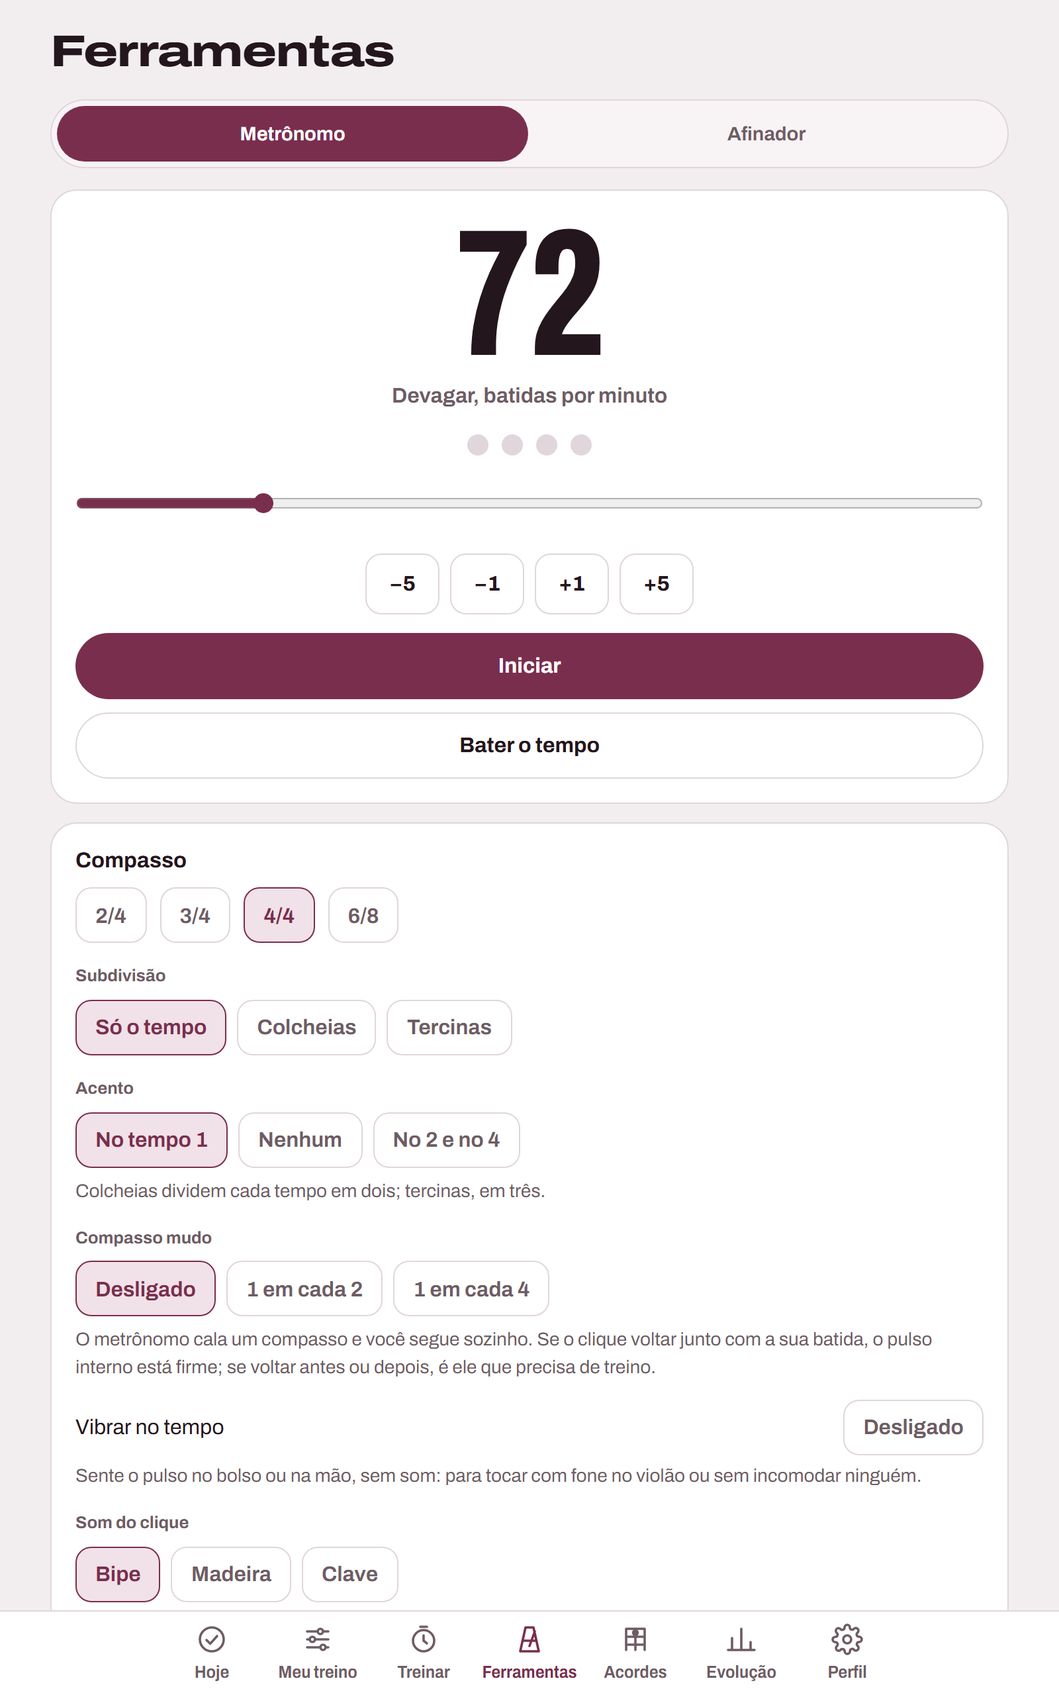
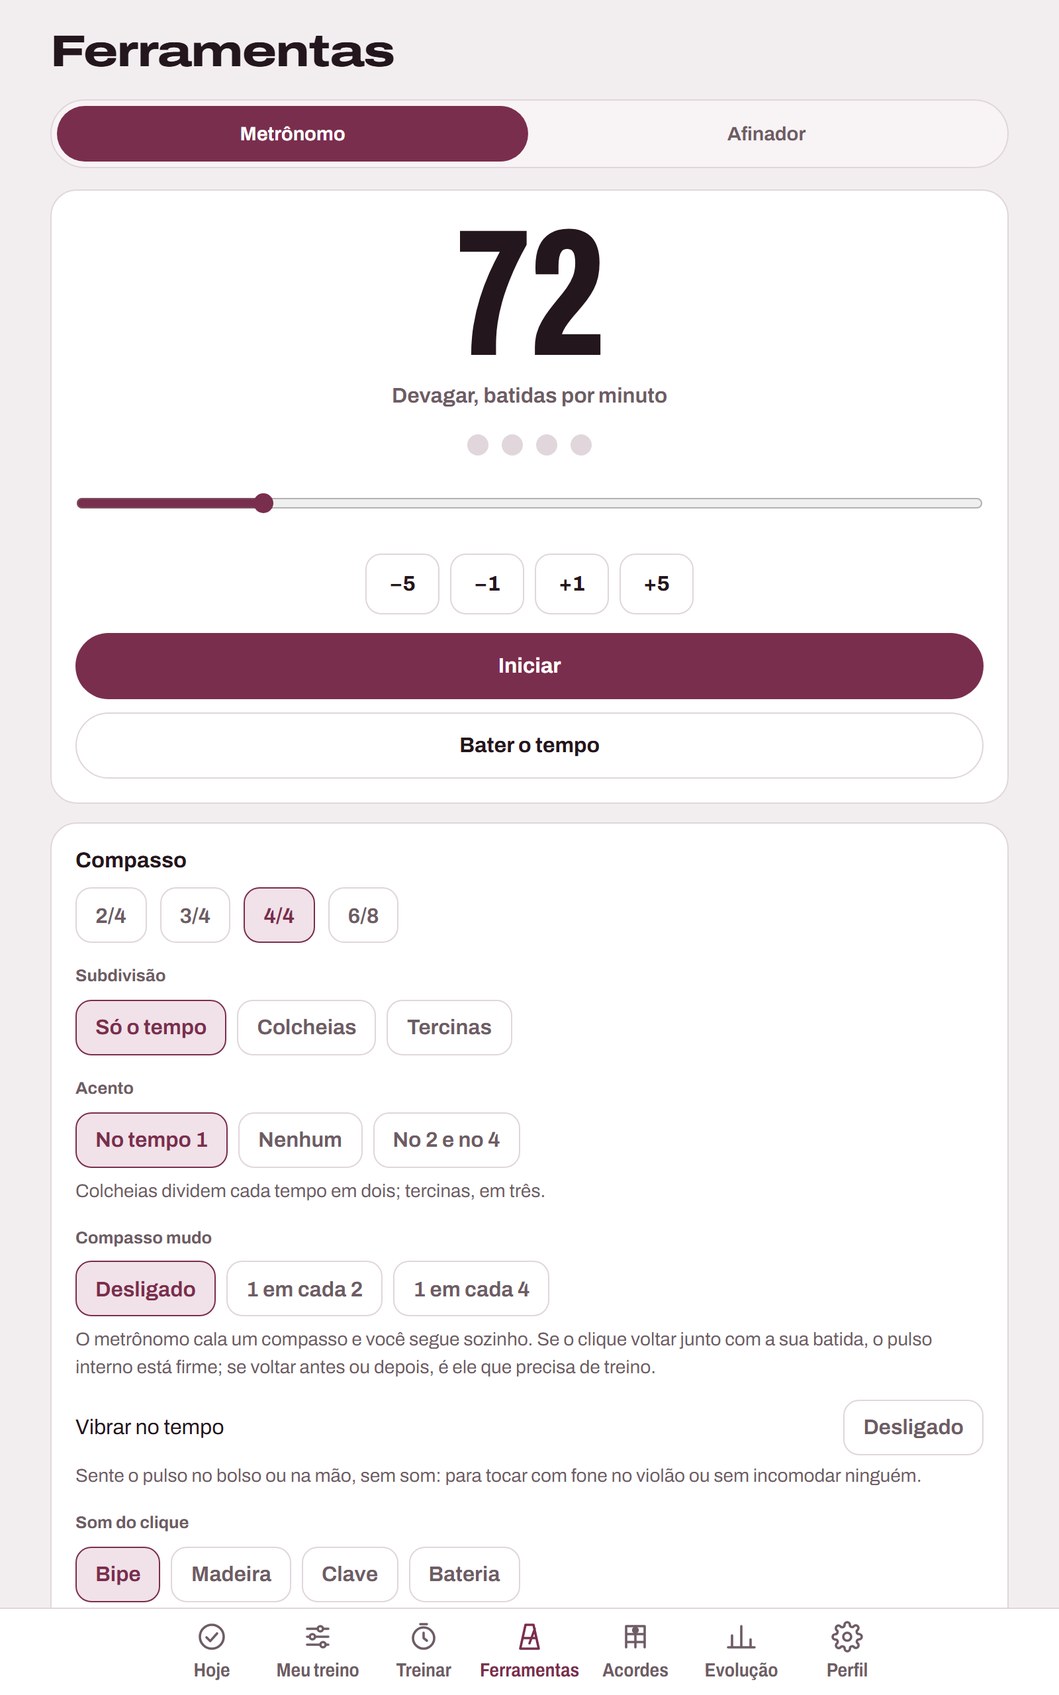
Ouvido no braço, conquistas novas e ficha da loja atualizada (versão 1.30.0)
- Ouvido, Braço ("Onde está a nota?"): o app toca uma nota até a 7ª casa e a pessoa responde tocando num braço com as notas escondidas; qualquer posição com a mesma altura vale, e as posições certas aparecem depois. Conta nos acertos por modalidade.
- Seis conquistas novas (cem dias de violão, cem dias seguidos, 3000 minutos, primeira música dominada, cinco dominadas, batida própria); a do roteiro passa a citar o total de semanas atual.
- Ficha da Play Store com tudo o que entrou desde a 1.25 e capturas regeneradas (celular e tablets), que também alimentam o manifesto do site.
- Testes de tela: 55.

diff --git a/index.html b/index.html
@@ -4,7 +4,7 @@
 <meta charset="utf-8">
 <meta name="viewport" content="width=device-width, initial-scale=1, viewport-fit=cover">
 <title>Violão Diário</title>
-<meta name="app-version" content="1.29.0">
+<meta name="app-version" content="1.30.0">
 <meta name="description" content="Treino diário de violão: plano por nível, metrônomo, afinador, batidas para tocar junto, acordes e notas.">
 <link rel="manifest" href="manifest.webmanifest">
 <meta name="theme-color" content="#F2EEF0" media="(prefers-color-scheme: light)">
@@ -461,6 +461,7 @@ body.flash::after{content:"";position:fixed;inset:0;background:var(--brass);opac
 .cdiag{width:118px;flex:none;margin-left:10px}
 .vol{display:grid;grid-template-columns:118px 1fr 52px;align-items:center;gap:8px;margin-top:6px}.vol b{text-align:right} /* volumes em Perfil, Som */
 .cif-ch.sel{box-shadow:0 0 0 2px var(--brass)} /* trecho em loop marcado na cifra */
+.fb button.right i{background:var(--ok);border-color:var(--ok);color:#fff}.fb button.wrong i{border-color:var(--warn);color:var(--warn)} /* ouvido, Braço: posições certas e a errada */
 .tabs button{font-size:.76rem;font-stretch:75%;padding-left:0;padding-right:0} /* nomes maiores: medidos com a fonte Archivo, o nome mais longo (Ferramentas) cabe na coluna com folga em cada faixa de largura */
 @media (min-width:480px){.tabs button{font-size:.82rem;font-stretch:80%}}
 @media (max-width:429px){.tabs button{font-size:.72rem;font-stretch:70%}}
@@ -828,7 +829,13 @@ const BADGES=[
  ['ouvido','Ouvido afiado','Vinte respostas no treino de ouvido, com 80% de acerto.',()=>S.ear.total>=20&&S.ear.ok/S.ear.total>=.8],
  ['meutreino','Treino próprio','Dez vezes em treinos montados por você.',()=>Object.values(S.ctLog).reduce((a,l)=>a+Object.values(l).reduce((b,e)=>b+(e.n||0),0),0)>=10],
  ['nivel','Subiu de nível','Cumpriu as quatro metas de um nível e passou ao seguinte.',()=>S.level>(S.startLevel||1)],
- ['roteiro','Roteiro completo','As 24 semanas vencidas.',()=>roadDone()>=ROAD_TOTAL]
+ ['roteiro','Roteiro completo','As '+ROAD_TOTAL+' semanas vencidas.',()=>roadDone()>=ROAD_TOTAL],
+ ['dias100','Cem dias de violão','Cem dias com prática registrada.',()=>Object.keys(S.days).filter(practiced).length>=100],
+ ['seq100','Cem dias seguidos','Cem dias sem falhar.',()=>bestStreak()>=100],
+ ['min3000','3000 minutos','Cinquenta horas de prática.',()=>totalMin()>=3000],
+ ['musica1','Primeira música','Uma música marcada como dominada.',()=>S.songs.some(s=>s.status==='dominada')],
+ ['musicas5','Repertório','Cinco músicas dominadas.',()=>S.songs.filter(s=>s.status==='dominada').length>=5],
+ ['minhabatida','Batida própria','Criou uma batida sua em Treinar, Batidas.',()=>(S.mypats||[]).length>0]
 ];
 function checkBadges(){const got=[];BADGES.forEach(b=>{try{if(!S.badges[b[0]]&&b[3]()){S.badges[b[0]]=today();got.push(b[1]);}}catch(e){}});if(got.length){save();got.forEach(n=>toast('Conquista: '+n));}}
 function roadEstimate(level,goal,done){ // semanas que faltam, ajustadas pelo tempo diário
@@ -1513,6 +1520,7 @@ function earNew(){
   else if(sub.ouvido==='ivl'){const r=45+Math.floor(Math.random()*13),iv=shuffle(IVLS),a=iv[0];E.q={midis:[r,r+a[0]],gap:.55,ans:a[1],opts:shuffle(iv.slice(0,4).map(x=>x[1]))};} // duas notas em sequência, a partir de uma nota grave
   else if(sub.ouvido==='prog'){const ps=shuffle(earProgs()),a=ps[0];E.q={names:a,ans:a.join(' '),opts:shuffle(ps.slice(0,4).map(p=>p.join(' ')))};}
   else if(sub.ouvido==='sing'){const m=[52,53,55,57,59,60,62,64][Math.floor(Math.random()*8)];E.q={midis:[m],sing:true,ans:NPT[m%12],opts:[]};if(MIC&&MIC.mode==='sing'){MIC.hold=0;MIC.hist=[];}} // uma nota entre Mi3 e Mi4
+  else if(sub.ouvido==='fb'){const si=Math.floor(Math.random()*6),f=Math.floor(Math.random()*8),m=OPEN[si]+f;E.q={midis:[m],fb:true,ans:NPT[m%12]+' (por exemplo, '+(6-si)+'ª corda '+(f?'casa '+f:'solta')+')',opts:[]};} // uma nota até a 7ª casa; vale qualquer posição com a mesma altura
   else{const pool=shuffle(earPool()),ans=pool[0];E.q={midis:chordMidis(ans),ans,opts:shuffle(pool.slice(0,4))};}
 }
 const strumSeq=(names,gap)=>names.forEach((n,i)=>chordMidis(n).forEach((m,k)=>pluck(m,i*gap+k*.035,.34))); // acordes um atrás do outro
@@ -2350,13 +2358,21 @@ V.treinar=function(){
     }
   }else{
     if(!E.q)earNew();
-    h+=seg('ouvido',[['mm','Maior/menor'],['qual','Acorde'],['ivl','Intervalo'],['prog','Progressão'],['sing','Cantar']]);
+    h+=seg('ouvido',[['mm','Maior/menor'],['qual','Acorde'],['ivl','Intervalo'],['prog','Progressão'],['sing','Cantar'],['fb','Braço']]);
     if(sub.ouvido==='sing'){const on=!!(MIC&&MIC.mode==='sing');
       h+='<section class="panel"><h2>Cante a nota que você ouviu</h2><p class="sub">Ouça, cante a mesma nota e segure. Vale em qualquer oitava: o que importa é a nota, não a altura. Cantar o que se ouve é o primeiro passo para tirar música de ouvido.</p><button class="btn block quiet" style="margin:16px 0" data-act="ear-play">Ouvir a nota'+(E.ans?' ('+esc(E.q.ans)+')':'')+'</button>';
       if(on)h+='<div class="meter"><div class="needle" id="sing-needle"></div></div><div class="between small muted"><span>grave</span><span>aguda</span></div><div class="lvl"><i id="sing-lvl"></i></div><p style="text-align:center;margin:12px 0;font-weight:650;min-height:1.4em" id="sing-msg" aria-live="polite">'+(E.ans==='ok'?'Certo!':'Cante a nota e segure, com a boca perto do celular.')+'</p>';
       else h+='<p class="sub small">'+(micErr?(NATIVE?'O app está sem acesso ao microfone. Libere nos ajustes do celular.':'O microfone não está disponível aqui. Permita o acesso quando o navegador pedir.'):'O microfone fica ligado só nesta tela.')+'</p>';
       if(E.ans)h+='<p style="margin:14px 0"><b>'+(E.ans==='ok'?'Certo.':'Era '+esc(E.q.ans)+'.')+'</b></p><button class="btn block" data-act="ear-next">Próxima nota</button>';
       h+='<div class="acts">'+(on?'<button class="btn sm line" data-act="sing-mic">Desligar microfone</button><button class="link" data-act="mic-again" data-mode="sing">Religar o microfone</button>':'<button class="btn sm" data-act="sing-mic">Ligar o microfone e cantar</button>')+(E.ans?'':'<button class="link" data-act="sing-skip">Não consegui, próxima</button>')+'</div>';
+      h+='<p class="muted small" style="margin-top:14px">Nesta sessão: '+E.ok+' de '+E.total+'. No total: '+S.ear.ok+' de '+S.ear.total+'.</p></section>';return h;}
+    if(sub.ouvido==='fb'){if(!E.q||!E.q.fb)earNew();const q=E.q,a=E.ans,right=[];for(let si=0;si<6;si++)for(let f=0;f<=12;f++)if(OPEN[si]+f===q.midis[0])right.push(si+':'+f);
+      h+='<section class="panel"><h2>Onde está a nota?</h2><p class="sub">Ouça a nota e toque no braço onde ela está. Vale qualquer posição com a mesma altura: a mesma nota mora em mais de uma corda. Treina o ouvido e o braço ao mesmo tempo.</p><button class="btn block quiet" style="margin:16px 0" data-act="ear-play">Ouvir a nota</button>';
+      let g='<div class="hd"></div>';for(let f=0;f<=12;f++)g+='<div class="hd'+([3,5,7,9,12].includes(f)?' mk':'')+'">'+(f===0?'solta':f+([3,5,7,9,12].includes(f)?' •':''))+'</div>';
+      for(let si=5;si>=0;si--){g+='<div class="sl">'+(6-si)+'ª</div>';for(let f=0;f<=12;f++){const k=si+':'+f,cls=(f===0?'open ':'')+(a&&right.includes(k)?'right ':'')+(a&&a.si===si&&a.f===f&&!right.includes(k)?'wrong ':'');g+='<button class="'+cls.trim()+'" data-act="ear-fb" data-si="'+si+'" data-f="'+f+'" aria-label="'+(6-si)+'ª corda, '+(f?'casa '+f:'solta')+'"><i>'+(a?NL[(OPEN[si]+f)%12]:'?')+'</i></button>';}}
+      h+='<div class="fbwrap" tabindex="0" role="region" aria-label="Braço para responder, rola para o lado"><div class="fb'+(S.lefty?' lefty':'')+'">'+g+'</div></div>';
+      if(a)h+='<p style="margin:14px 0"><b>'+(a.ok?'Certo: '+esc(q.ans)+'.':'Era '+esc(q.ans)+'. As posições certas estão marcadas.')+'</b></p><button class="btn block" data-act="ear-next">Próxima nota</button>';
+      else h+='<p class="muted small" style="margin-top:10px">As notas ficam escondidas até você responder.</p>';
       h+='<p class="muted small" style="margin-top:14px">Nesta sessão: '+E.ok+' de '+E.total+'. No total: '+S.ear.ok+' de '+S.ear.total+'.</p></section>';return h;}
     const EAR={mm:['O acorde é maior ou menor?','Maior costuma soar aberto e alegre. Menor, fechado e triste.','Ouvir o acorde'],qual:['Qual acorde você ouviu?','As opções vêm dos acordes do seu nível.','Ouvir o acorde'],ivl:['Qual é a distância entre as duas notas?','Duas notas, uma depois da outra. Cante a primeira e suba até a segunda: a distância é o intervalo. As escalas em Acordes, Teoria mostram cada um.','Ouvir as duas notas'],prog:['Qual progressão você ouviu?','Quatro acordes em sequência, das progressões do seu nível. Ouça o baixo de cada acorde: ele conta a história.','Ouvir a progressão']}[sub.ouvido]||['','',''];
     h+='<section class="panel"><h2>'+EAR[0]+'</h2><p class="sub">'+EAR[1]+'</p><button class="btn block quiet" style="margin:16px 0" data-act="ear-play">'+EAR[2]+'</button><div class="opts'+(sub.ouvido==='prog'?' one':'')+'">'+E.q.opts.map(o=>{let c='opt';if(E.ans){if(o===E.q.ans)c+=' right';else if(o===E.ans)c+=' wrong';}return '<button class="'+c+'" data-act="ear-ans" data-v="'+esc(o)+'">'+esc(o)+'</button>';}).join('')+'</div>';
@@ -2462,7 +2478,7 @@ V.evolucao=function(){
     const wa=weekStats(0),wb=weekStats(1);
     h+='<section class="panel"><h2>Esta semana</h2><div style="margin-top:6px"><div class="kv"><span>Minutos</span><b>'+wa.min+(wb.min?' <small class="muted">(semana passada: '+wb.min+')</small>':'')+'</b></div><div class="kv"><span>Dias praticados</span><b>'+wa.days+' de 7'+(wb.min?' <small class="muted">(passada: '+wb.days+')</small>':'')+'</b></div></div></section>';
     h+='<section class="panel"><h2>Conquistas</h2><p class="sub small">'+Object.keys(S.badges).length+' de '+BADGES.length+'</p><div class="badges">'+BADGES.map(b=>{const got=S.badges[b[0]];return '<div class="badge'+(got?' got':'')+'"><b>'+esc(b[1])+'</b><span>'+esc(b[2])+'</span>'+(got?'<small>'+esc(dayTxt(got))+'</small>':'')+'</div>';}).join('')+'</div></section>';
-    const EM={mm:'Maior ou menor',qual:'Acorde',ivl:'Intervalo',prog:'Progressão',sing:'Cantar a nota'},em=Object.keys(EM).filter(x=>S.earLog[x]&&S.earLog[x].total);
+    const EM={mm:'Maior ou menor',qual:'Acorde',ivl:'Intervalo',prog:'Progressão',sing:'Cantar a nota',fb:'Onde está a nota'},em=Object.keys(EM).filter(x=>S.earLog[x]&&S.earLog[x].total);
     if(em.length)h+='<section class="panel"><h2>Ouvido por modalidade</h2><div style="margin-top:6px">'+em.map(x=>{const e=S.earLog[x];return '<div class="kv"><span>'+EM[x]+'</span><b>'+Math.round(100*e.ok/e.total)+'% <small class="muted">('+e.ok+' de '+e.total+')</small></b></div>';}).join('')+'</div><p class="muted small" style="margin-top:8px">Contado a partir da versão 1.27; o total geral, em Marcas, inclui o que veio antes.</p></section>';
     h+='<section class="panel"><h2>Marcas</h2><div style="margin-top:6px"><div class="kv"><span>Acordes dominados</span><b>'+dom+' de '+CHORDS.length+'</b></div><div class="kv"><span>Melhor troca em 1 minuto</span><b>'+(pk?bestOf(pk)+' ('+esc(pk.replace('|',' e '))+')':'ainda sem medição')+'</b></div><div class="kv"><span>Metrônomo mais rápido por 1 minuto</span><b>'+(S.maxBpm?S.maxBpm+' BPM':'ainda sem registro')+'</b></div><div class="kv"><span>Acertos no treino de ouvido</span><b>'+(S.ear.total?Math.round(S.ear.ok/S.ear.total*100)+'% de '+S.ear.total:'ainda sem respostas')+'</b></div><div class="kv"><span>Revisão rápida: itens firmes</span><b>'+Object.keys(S.rev).filter(x=>S.rev[x].s>=3).length+' de '+Object.keys(S.rev).length+'</b></div></div></section>';
   }else if(sub.evolucao==='roteiro'){
@@ -2540,6 +2556,7 @@ if(PWA.host){
 const TABS=[['hoje','Hoje','<circle cx="12" cy="12" r="9"/><path d="M8 12.5l2.8 2.8L16 9.5"/>'],['meu','Meu treino','<path d="M4 6h8M16 6h4M4 12h2M10 12h10M4 18h10M18 18h2"/><circle cx="14" cy="6" r="2"/><circle cx="8" cy="12" r="2"/><circle cx="16" cy="18" r="2"/>'],['treinar','Treinar','<circle cx="12" cy="13" r="8"/><path d="M12 9v4l2.5 2M9.5 2.5h5"/>'],['ferramentas','Ferramentas','<path d="M9 3h6l4 18H5L9 3zM12 17l4-11M7.2 13h9.6"/>'],['acordes','Acordes','<path d="M5 4v16M12 4v16M19 4v16M5 4h14M5 10h14M5 16h14"/><circle cx="12" cy="7" r="1.7" fill="currentColor"/>'],['evolucao','Evolução','<path d="M5 20V11M12 20V4M19 20v-6M2 20h20"/>'],['perfil','Perfil','<circle cx="12" cy="12" r="3"/><path d="M19.4 15a1.7 1.7 0 0 0 .3 1.8l.1.1a2 2 0 1 1-2.8 2.8l-.1-.1a1.7 1.7 0 0 0-1.8-.3 1.7 1.7 0 0 0-1 1.5V21a2 2 0 1 1-4 0v-.1a1.7 1.7 0 0 0-1.1-1.5 1.7 1.7 0 0 0-1.8.3l-.1.1a2 2 0 1 1-2.8-2.8l.1-.1a1.7 1.7 0 0 0 .3-1.8 1.7 1.7 0 0 0-1.5-1H3a2 2 0 1 1 0-4h.1a1.7 1.7 0 0 0 1.5-1.1 1.7 1.7 0 0 0-.3-1.8l-.1-.1a2 2 0 1 1 2.8-2.8l.1.1a1.7 1.7 0 0 0 1.8.3h.1a1.7 1.7 0 0 0 1-1.5V3a2 2 0 1 1 4 0v.1a1.7 1.7 0 0 0 1 1.5 1.7 1.7 0 0 0 1.8-.3l.1-.1a2 2 0 1 1 2.8 2.8l-.1.1a1.7 1.7 0 0 0-.3 1.8v.1a1.7 1.7 0 0 0 1.5 1H21a2 2 0 1 1 0 4h-.1a1.7 1.7 0 0 0-1.5 1z"/>']];
 /* ---------- novidades de cada versão, mostradas uma vez ---------- */
 const NEWS=[
+ ['1.30.0',['Ouvido, Braço: ouça a nota e toque no braço onde ela está; vale qualquer posição com a mesma altura.','Seis conquistas novas: cem dias de violão, cem dias seguidos, 3000 minutos, primeira música dominada, cinco dominadas e batida própria.','Ficha e capturas da loja atualizadas com tudo o que entrou nas últimas versões.']],
  ['1.29.0',['Tocar junto com trecho em loop: escolha o acorde de início e o de fim e só aquela parte se repete.','Perfil, Som: volumes separados para o violão e para o clique ou bateria.','Botão Voltar do Android e tecla Esc fecham o que está aberto por cima (desenho do acorde, palco, música) antes de voltar para Hoje.','Depois de tocar junto uma música inteira três vezes, o app sugere marcá-la como dominada.']],
  ['1.28.0',['Acordes, Descobrir: marque as casas num diagrama e o app diz que acorde é, mostra as notas e toca; abaixo, as formas móveis de E e de A em qualquer casa.','Na cifra, o tom provável da música (com o relativo) e os acordes do tom.','Remover uma música pede confirmação e dá para desfazer.']],
  ['1.27.0',['Depois do nível 9, Hoje vira manutenção: cada dia revisita uma semana do roteiro, com os seus pares de troca mais lentos e as suas músicas.','Evolução, Números: minutos por semana nas últimas 12 semanas (com a meta semanal), melhor troca por minuto de cada semana e acertos do ouvido por modalidade.','Hoje, em Mais: “Praticar agora” liga um cronômetro que conta mesmo com a tela apagada e soma os minutos ao parar.','Site instalável com prévia das telas na instalação; testes de tela com auditoria de acessibilidade (axe-core).']],
@@ -2749,7 +2766,8 @@ const ACT={
   't-adj':el=>{T.count=Math.max(0,T.count+(+el.dataset.d));const n=$('#t-n');if(n)n.textContent=T.count;},
   't-mic':()=>{micAgain('count');},
   'mic-again':el=>{micAgain(el.dataset.mode||'tune');},
-  'ear-play':()=>{earPlay();},
+  'ear-fb':el=>{if(E.ans||!E.q||!E.q.fb)return;const si=+el.dataset.si,f=+el.dataset.f,m=OPEN[si]+f,ok=m===E.q.midis[0];E.ans={si,f,ok};E.total++;S.ear.total++;if(ok){E.ok++;S.ear.ok++;}earLogAdd(ok);if(audio())pluckAt(m,AC.currentTime+.01,.6,si);save();checkProofs();render();},
+'ear-play':()=>{earPlay();},
   'ear-ans':el=>{if(E.ans||!E.q)return;E.ans=el.dataset.v;const ok=E.ans===E.q.ans;E.total++;S.ear.total++;if(ok){E.ok++;S.ear.ok++;}earLogAdd(ok);save();checkProofs();render();},
   'ear-next':()=>{earNew();earPlay();render();},
   'chord-play':el=>strum(chordMidis(el.dataset.c),.045),

diff --git a/store/listagem.md b/store/listagem.md
@@ -15,24 +15,26 @@ Um treino curto por dia: metrônomo, afinador, acordes, batidas e teoria.
 Quinze minutos por dia rendem mais que duas horas no sábado. O Violão Diário monta um treino curto para o seu nível, todos os dias, e mostra sua evolução em números.
 
 COMO FUNCIONA
-Você diz onde está (nunca toquei, sei um ou dois acordes, quero vencer a pestana, quero dedilhar, quero escalas e solos) e quanto tempo tem por dia. O app monta um roteiro de 9 níveis com 4 semanas cada, e todo dia entrega um treino com aquecimento, técnica, ritmo, trocas de acorde e repertório. Cada bloco tem um cronômetro e explica por que existe.
+Você diz onde está (nunca toquei, sei um ou dois acordes, quero vencer a pestana, quero dedilhar, quero escalas e solos) e quanto tempo tem por dia. O app monta um roteiro de 9 níveis com 4 semanas cada, e todo dia entrega um treino com aquecimento, técnica, ritmo, trocas de acorde e repertório. Cada bloco tem um cronômetro e explica por que existe. Depois do último nível, o treino vira manutenção: cada dia revisita uma parte do roteiro, com os seus pares mais lentos e as suas músicas.
 
 O QUE VEM DENTRO
-• Metrônomo com subir aos poucos, subdivisão em colcheias ou tercinas e acento no 2 e no 4.
-• Afinador pelo microfone e tons de referência.
-• Batidas e dedilhados para tocar junto, com contagem e som de violão: quatro para baixo, desce e sobe, pop, reggae, valsa, P-I-M-A, baixo alternado e mais.
+• Metrônomo com subir aos poucos, subdivisão em colcheias ou tercinas, acento no 2 e no 4, compasso mudo, som de bipe, madeira, clave ou bateria simples, vibração e piscar da tela.
+• Afinador pelo microfone, por corda ou cromático, com meio tom abaixo, Drop D e Lá de referência ajustável, e tons de referência.
+• Batidas e dedilhados para tocar junto, com contagem e som de violão: quatro para baixo, desce e sobe, pop, reggae, valsa, bossa nova, samba, xote, baião, P-I-M-A, baixo alternado e mais, além da sua batida própria.
 • Contador de trocas de acorde por minuto, tocando na tela ou pelo microfone.
 • Conferir um acorde pelo som: o app diz que corda não soou ou que dedo parece fora do lugar.
 • Som de violão de verdade: notas gravadas de violão de nylon, de aço e de guitarra limpa, à sua escolha.
 • 42 acordes com diagramas, dedos e som, incluindo pestanas, sétimas, suspensos, add9, com baixo e power chords, com versões fáceis para começar.
+• Que acorde é esse? Marque as casas num diagrama e o app diz o nome, mostra as notas e toca; formas móveis de E e de A em qualquer casa.
 • Guia do iniciante: como segurar o violão, ler o diagrama, palheta ou dedos, dor nos dedos e cordas.
 • Teoria que explica: por que cada corda é apertada onde é, o que é terça, quinta, sétima, escalas (maior, menor natural, harmônica, melódica e pentatônica), ciclo das quintas e quartas.
-• Treino de ouvido: maior ou menor, qual acorde, intervalos e progressões.
+• Treino de ouvido: maior ou menor, qual acorde, intervalos, progressões, cantar a nota e onde está a nota no braço.
 • Exercício de tempo: o app mede se você adianta ou atrasa.
 • Meu treino: monte treinos com os seus acordes e batidas, salve e veja o histórico de cada um.
-• Músicas: cadastre as suas, com cifra e rolagem automática, e receba sugestões de músicas que você já consegue tocar.
+• Músicas: cadastre as suas ou receba a cifra de outro app pelo menu Compartilhar. A cifra mostra os desenhos dos acordes, o tom provável, transposição e capotraste, rolagem automática e modo palco, e o tocar junto repete só o trecho que você marcar. Sugestões de músicas que você já consegue tocar.
 • Revisão rápida: perguntas curtas na hora certa de rever, com repetição espaçada.
-• Evolução: sequência de dias, minutos por dia, calendário do ano, diário, conquistas e metas comprovadas pelos seus registros.
+• Evolução: sequência de dias, minutos por dia e por semana, melhor troca por minuto, calendário do ano, diário, gravação de 30 segundos, cartão para compartilhar, conquistas e metas comprovadas pelos seus registros.
+• Prática livre com cronômetro, que conta mesmo com a tela apagada.
 • Lembrete diário no horário que você escolher.
 • Letra maior, tema claro ou escuro, modo canhoto e perfis para mais de uma pessoa no mesmo celular.
 • Cópias automáticas do progresso e exportar e importar para trocar de celular.

diff --git a/README.md b/README.md
@@ -144,6 +144,8 @@ No navegador, nada disso muda: o site continua igual.
 - Tocar junto com trecho em loop: os seletores "do acorde" e "ao" (`SV.la`, `SV.lb`) recortam a sequência antes de `grStart`; a cifra marca o trecho e o destaque do acorde da vez usa o deslocamento. Cada passagem completa pela música inteira conta em `plays`; com três, a cifra sugere marcar como dominada.
 - Volumes (Perfil, Som): o clique, a bateria e a contagem passam por um ganho próprio (`CLK`); o violão multiplica os ganhos da corda sintetizada e das amostras (`applyVolumes`).
 - Voltar (Android) e Esc chamam `goBack`: fecha o desenho do acorde, o exercício de tempo, o palco e a música, uma coisa por vez; depois vai para Hoje e, no app, minimiza.
+- Ouvido, Braço ("Onde está a nota?"): o app toca uma nota até a 7ª casa e a pessoa responde tocando num braço com as notas escondidas; qualquer posição com a mesma altura vale, e depois da resposta as posições certas aparecem. Conta nos acertos por modalidade.
+- Conquistas: 21 (as seis últimas: cem dias de violão, cem dias seguidos, 3000 minutos, primeira música dominada, cinco dominadas e batida própria).
 - Links que abrem no app (Android App Links): o manifesto declara os endereços `https://luizneogrid-commits.github.io/appviolao/...` e o site publica `.well-known/assetlinks.json` com a impressão digital SHA-256 do certificado do app. Com isso, um link de treino ou um atalho `?ir=afinador` abre direto no app instalado. Depois de publicar na Play Store, o Google passa a assinar o app com a chave dele: pegue a impressão digital em Play Console, Configuração do app, Integridade do app, "Certificado da chave de assinatura do app", e acrescente à lista `sha256_cert_fingerprints` (mantendo a atual, que é a da chave de upload e serve para o APK do GitHub).
 
 - O progresso fica salvo no aparelho de cada pessoa. O app Android, o site instalado e o link do Claude guardam progressos separados. Para mover de um para o outro, ou antes de trocar de celular, use Exportar e Importar em Perfil (na barra de baixo), Seus dados. O app também guarda, no próprio aparelho, uma cópia automática por dia (as últimas sete), com "Restaurar" no mesmo lugar.
